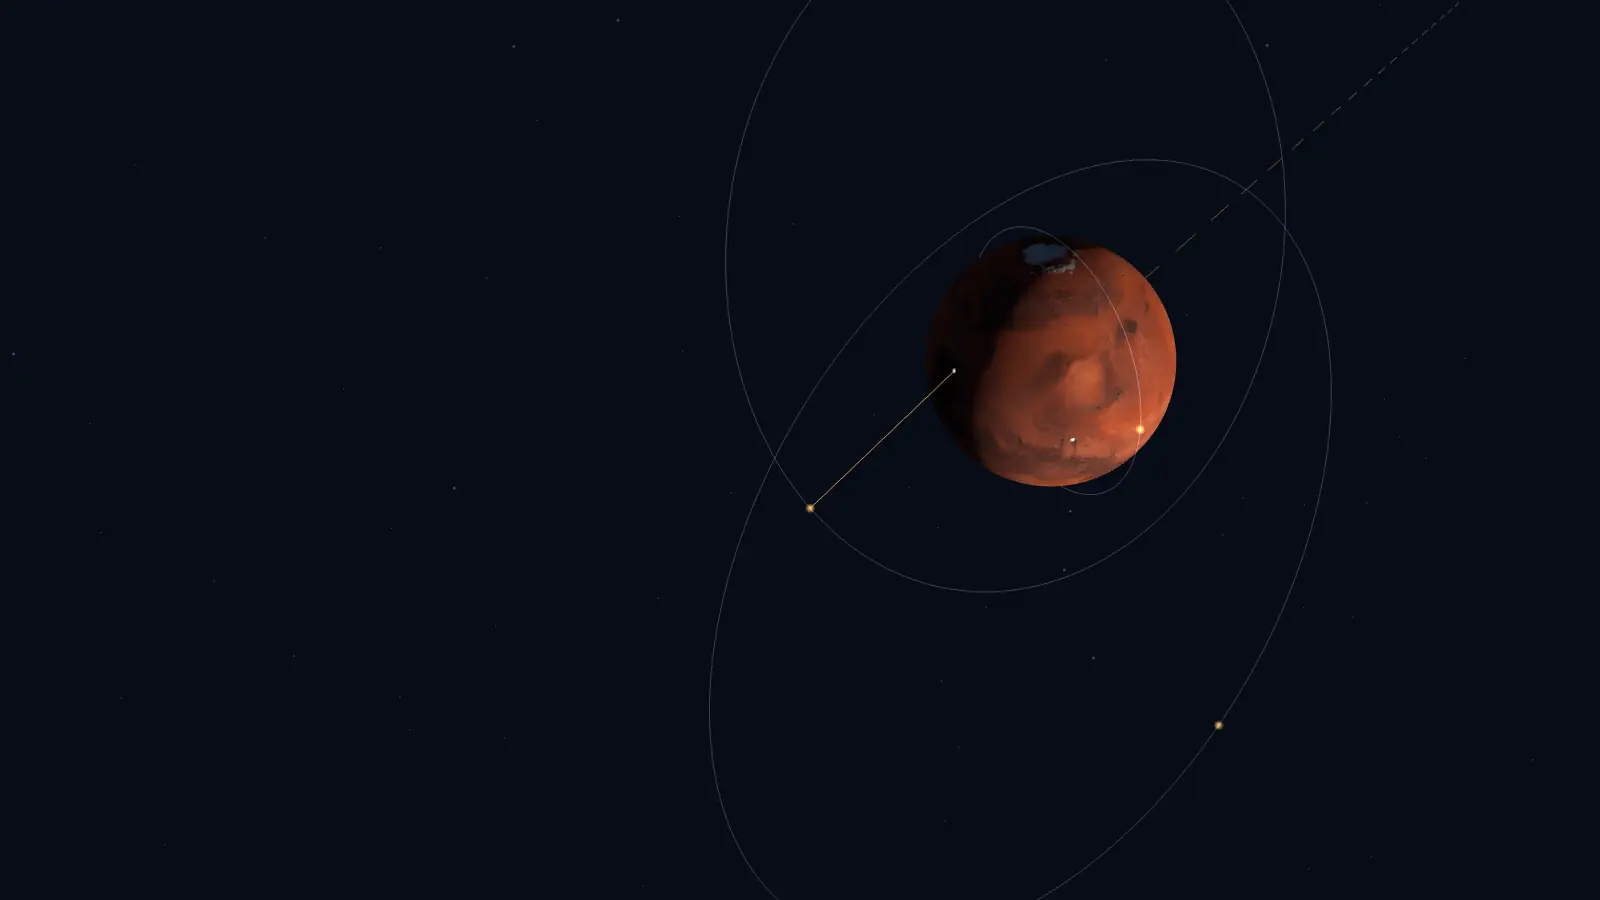
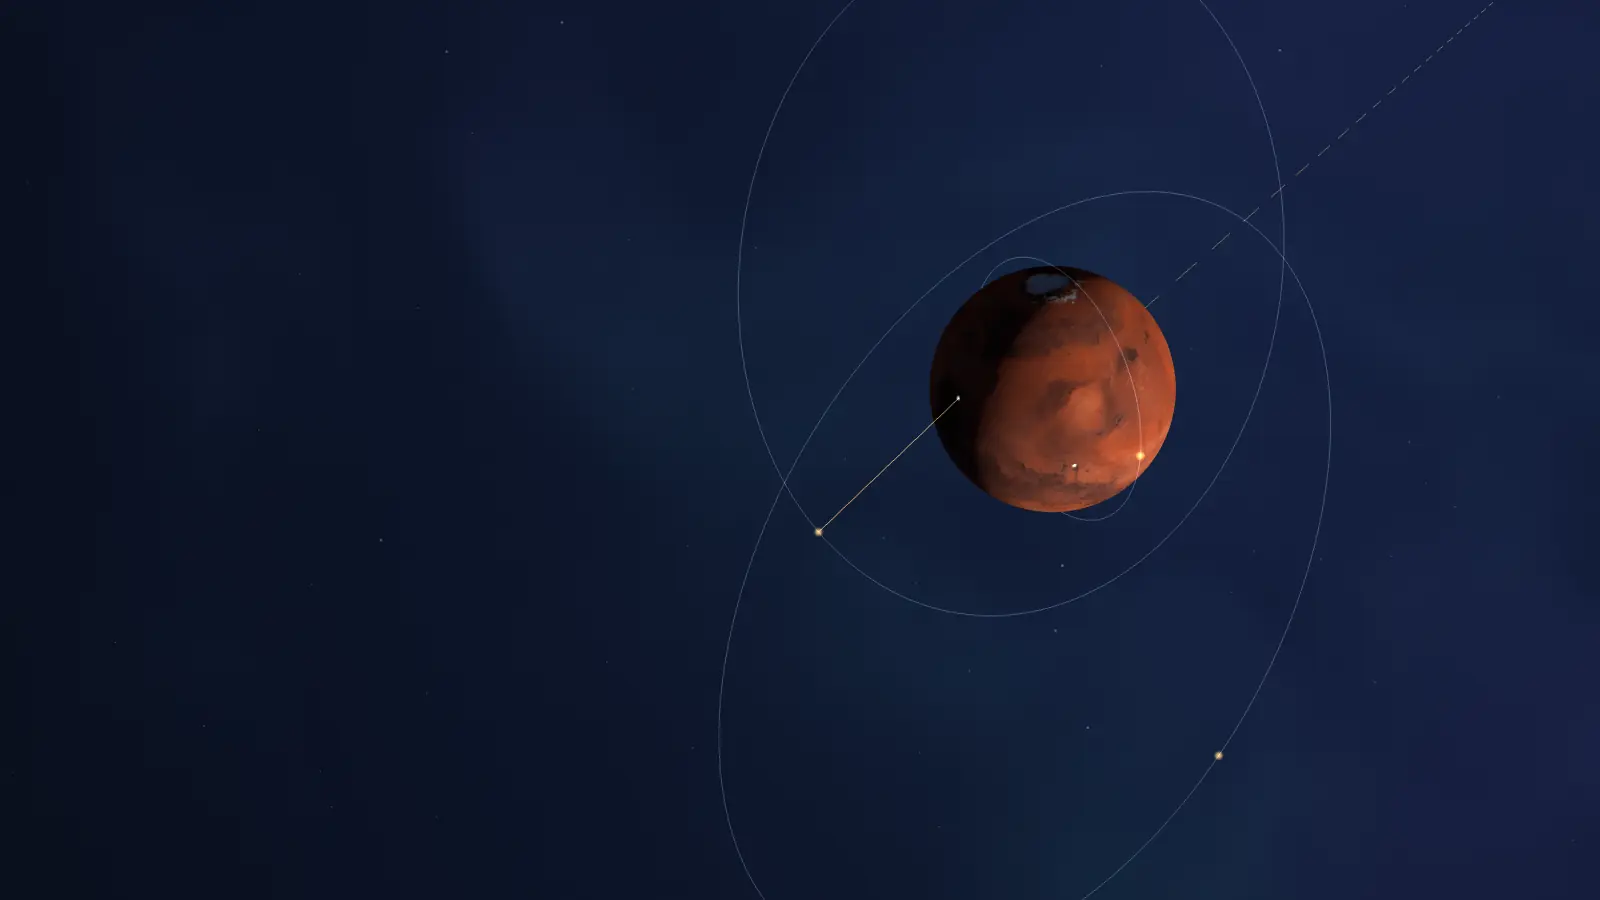
Updated background

diff --git a/assets/js/scene/scene.js b/assets/js/scene/scene.js
@@ -89,7 +89,8 @@ const duration = (s) => { const m = Math.max(1, Math.ceil(s / 60)); return m < 6
 const degrees = (lat, lon) => `${Math.abs(lat).toFixed(1)}° ${lat < 0 ? 'S' : 'N'}, ${Math.abs(lon).toFixed(1)}° ${lon < 0 ? 'W' : 'E'}`;
 
 // reach: how far each stop's camera stands from its target, as a multiple of the tour's (og-card.html only).
-export async function createScene(canvas, { onLive = () => {}, onSlow = () => {}, reach = [1, 1, 1, 1] } = {}) {
+// fade: whether the backdrop fades to the page colour along the bottom edge (off in og-card.html).
+export async function createScene(canvas, { onLive = () => {}, onSlow = () => {}, reach = [1, 1, 1, 1], fade = true } = {}) {
   const small = matchMedia('(max-width: 760px)').matches;
   const renderer = new THREE.WebGLRenderer({ canvas, antialias: true, powerPreference: 'high-performance' });
   let pixelRatio = Math.min(devicePixelRatio || 1, small ? 1.5 : 1.75);
@@ -176,10 +177,11 @@ export async function createScene(canvas, { onLive = () => {}, onSlow = () => {}
   }
 
   const loader = new THREE.TextureLoader();
-  const [dayTex, nightTex, marsTex, dsn, odc, sensorsLL] = await Promise.all([
+  const [dayTex, nightTex, marsTex, skyTex, dsn, odc, sensorsLL] = await Promise.all([
     loader.loadAsync('/assets/img/tex/earth-day.jpg'),
     loader.loadAsync('/assets/img/tex/earth-night.jpg'),
     loader.loadAsync('/assets/img/tex/mars.jpg'),
+    loader.loadAsync('/assets/img/tex/sky.webp').catch(() => null),   // the tour goes on without it
     fetch('/data/dsn.json').then((r) => r.json()),
     fetch('/data/odc.json').then((r) => r.json()),
     fetch('/data/sensors.json').then((r) => r.json()),
@@ -213,6 +215,43 @@ export async function createScene(canvas, { onLive = () => {}, onSlow = () => {}
     };
     scene.add(make(2600, 1.6, 0.55), make(500, 2.6, 0.8));
   }
+
+  // ---------------------------------------------------------------- backdrop
+  // A navy glow behind the subject, the same gradient as the stage's CSS background so the canvas
+  // fades in over it unseen, and a faint nebula (make_assets.py) fixed to the sky like the stars.
+  // Both fade to the page colour along the bottom edge, where the stage meets the sections below.
+  const SKY = 0.11;                                    // the nebula's brightness
+  const backdropRes = new THREE.Vector2(1, 1), edge = { value: fade ? 1 : 0 };
+  const SCREEN = /* glsl */`
+    uniform vec2 res; uniform float edge;
+    float dither() { return (fract(sin(dot(gl_FragCoord.xy, vec2(12.9898, 78.233))) * 43758.5453) - 0.5) / 255.0; }
+    float bottom() { return edge * clamp((0.2 - gl_FragCoord.y / res.y) / 0.2, 0.0, 1.0); }`;
+  const backdrop = new THREE.Mesh(new THREE.PlaneGeometry(2, 2), new THREE.ShaderMaterial({
+    uniforms: { res: { value: backdropRes }, edge, at: { value: small ? new THREE.Vector2(0.5, 0.32) : new THREE.Vector2(0.7, 0.4) } },
+    vertexShader: 'void main() { gl_Position = vec4(position.xy, 0.0, 1.0); }',
+    fragmentShader: SCREEN + /* glsl */`
+      uniform vec2 at;
+      void main() {
+        vec2 uv = vec2(gl_FragCoord.x / res.x, 1.0 - gl_FragCoord.y / res.y);
+        float t = clamp(length((uv - at) / vec2(0.75, 0.85)), 0.0, 1.0);
+        vec3 col = mix(vec3(9.0, 15.0, 30.0), vec3(28.0, 43.0, 88.0), 0.5 * (1.0 - t)) / 255.0;
+        col = mix(col, vec3(7.0, 11.0, 22.0) / 255.0, bottom());
+        gl_FragColor = vec4(col + dither(), 1.0);
+      }`,
+    depthTest: false, depthWrite: false,
+  }));
+  const sky = new THREE.Mesh(new THREE.SphereGeometry(1400, 64, 32), new THREE.ShaderMaterial({
+    uniforms: { res: { value: backdropRes }, edge, map: { value: skyTex }, strength: { value: skyTex ? SKY : 0 } },
+    vertexShader: 'varying vec2 vUv; void main() { vUv = uv; gl_Position = projectionMatrix * modelViewMatrix * vec4(position, 1.0); }',
+    fragmentShader: SCREEN + /* glsl */`
+      uniform sampler2D map; uniform float strength; varying vec2 vUv;
+      void main() { gl_FragColor = vec4(texture2D(map, vUv).rgb * strength * (1.0 - bottom()) + dither(), 1.0); }`,
+    side: THREE.BackSide, depthTest: false, depthWrite: false, blending: THREE.AdditiveBlending,
+  }));
+  backdrop.renderOrder = -2;                           // drawn first, under everything else
+  sky.renderOrder = -1;
+  backdrop.frustumCulled = sky.frustumCulled = false;
+  scene.add(backdrop, sky);
 
   // ---------------------------------------------------------------- Earth
   const earth = new THREE.Group();
@@ -1038,6 +1077,7 @@ export async function createScene(canvas, { onLive = () => {}, onSlow = () => {}
     view.w = w; view.h = h;
     odcMat.uniforms.pr.value = renderer.getPixelRatio();
     renderer.setSize(w, h, false);
+    renderer.getDrawingBufferSize(backdropRes);
     camera.aspect = w / h;
     if (w > 760) camera.setViewOffset(w, h, -0.1 * w, 0, w, h);
     else camera.setViewOffset(w, h, 0, 0.21 * h, w, h);

diff --git a/assets/css/site.css b/assets/css/site.css
@@ -180,7 +180,15 @@ html.scene { scroll-behavior: smooth; }
   grid-area: 1 / 1; align-self: start;
   height: 100vh; height: 100svh;
   overflow: hidden;
-  background: radial-gradient(120% 90% at 70% 40%, #0d1630 0%, var(--bg) 60%);
+  /* the same glow scene.js draws behind the tour, so the canvas fades in over it unseen */
+  background: linear-gradient(rgba(7, 11, 22, 0) 80%, var(--bg)),
+    radial-gradient(75% 85% at 70% 40%, rgba(28, 43, 88, 0.5), rgba(28, 43, 88, 0)), #090f1e;
+}
+@media (max-width: 760px) {
+  .scene .stage {
+    background: linear-gradient(rgba(7, 11, 22, 0) 80%, var(--bg)),
+      radial-gradient(75% 85% at 50% 32%, rgba(28, 43, 88, 0.5), rgba(28, 43, 88, 0)), #090f1e;
+  }
 }
 .scene .stage canvas { position: absolute; inset: 0; width: 100%; height: 100%; opacity: 0; transition: opacity 1.4s ease; }
 .scene-ready .stage canvas { opacity: 1; }
@@ -404,17 +412,25 @@ html.scene { scroll-behavior: smooth; }
 .site-foot .communities a { color: var(--ink); }
 
 /* ---------- topic pages ---------- */
-.topic-hero { position: relative; overflow: hidden; border-bottom: 1px solid var(--line-soft); min-height: min(76vh, 640px); display: flex; align-items: center; }
+.topic-hero { position: relative; overflow: hidden; min-height: min(76vh, 640px); display: flex; align-items: center; }
 .topic-hero > .wrap { width: 100%; }
 .topic-hero picture, .topic-hero > img { position: absolute; inset: 0; }
 .topic-hero picture img { width: 100%; height: 100%; object-fit: cover; object-position: 85% 50%; }
-.topic-hero::after { content: ""; position: absolute; inset: 0; background: linear-gradient(90deg, rgba(7, 11, 22, 0.94) 0%, rgba(7, 11, 22, 0.75) 42%, rgba(7, 11, 22, 0.05) 75%); }
+/* The picture fades into the page at its top and bottom, as the tour does on the home page. */
+.topic-hero::after {
+  content: ""; position: absolute; inset: 0;
+  background: linear-gradient(var(--bg), rgba(7, 11, 22, 0) 96px, rgba(7, 11, 22, 0) calc(100% - 160px), var(--bg)),
+    linear-gradient(90deg, rgba(7, 11, 22, 0.94) 0%, rgba(7, 11, 22, 0.75) 42%, rgba(7, 11, 22, 0.05) 75%);
+}
 .topic-hero .wrap { position: relative; z-index: 1; padding-top: 72px; padding-bottom: 72px; }
 .topic-hero h1 { font-size: clamp(34px, 4.6vw, 54px); margin-bottom: 14px; }
 .topic-hero .num { color: var(--accent); font-size: 14px; letter-spacing: 1.6px; margin: 0 0 6px; }
 .topic-hero .lead { max-width: 54ch; font-size: clamp(17px, 1.5vw, 19px); }
 @media (max-width: 760px) {
-  .topic-hero::after { background: linear-gradient(180deg, rgba(7, 11, 22, 0.55) 0%, rgba(7, 11, 22, 0.92) 55%); }
+  .topic-hero::after {
+    background: linear-gradient(var(--bg), rgba(7, 11, 22, 0) 64px, rgba(7, 11, 22, 0) calc(100% - 120px), var(--bg)),
+      linear-gradient(180deg, rgba(7, 11, 22, 0.55) 0%, rgba(7, 11, 22, 0.92) 55%);
+  }
   .topic-hero .wrap { padding-top: 140px; padding-bottom: 40px; }
 }
 /* The way back to this topic's stop on the home page, and the four topics side by side. */

diff --git a/scripts/og-card.html b/scripts/og-card.html
@@ -124,6 +124,9 @@
 
     /* ---- ?view=N: one panel's picture, nothing else */
     html.one-view .og { display: block; width: 100vw; height: 100vh; }
+    /* A hero is 1600 x 900 whatever the window: headless Chrome lays a 1600 x 900 window out
+       87 px short, which left a strip of page colour along the bottom of each capture. */
+    html.hero .og { width: 1600px; height: 900px; }
     html.one-view .og > :not(.og-topics), html.one-view .og .og-label, html.one-view .og .og-topic::before { display: none; }
     html.one-view .og .og-topics, html.one-view .og .og-topic { display: flex; height: 100%; }
     html.one-view .og .og-topic { flex: 1; }
@@ -201,7 +204,9 @@
     // The tour films stop 03 from 3.7 Earth radii and stop 02 from 4.3. Side by side, 03's camera
     // stands back by 1.156 so the two Earths come out the same size; y 0.389 above puts 03's
     // centre level with 02's (both panels are at their widest framing, so a zoom cannot do it).
-    const REACH = HERO >= 0 ? [1, 1, 1, 1] : [1, 1, 1.156, 1];
+    // The heroes' cameras stand back by 900 / 813: their framing was set while the capture came out
+    // 813 px tall (see html.hero above), and this keeps each subject the size it had then.
+    const REACH = HERO >= 0 ? [1.107, 1.107, 1.107, 1] : [1, 1, 1.156, 1];
     // For trying things out: ?t=ISO (every panel's moment), ?t0=ISO and ?r0=minutes (one panel's
     // moment and run), ?f2=x,y,z (one panel's framing), ?pull=0.3.
     if (q.has('pull')) PULL = Number(q.get('pull'));
@@ -214,6 +219,7 @@
     const root = document.documentElement;
     if (SLIDE) root.classList.add('slide');
     if (VIEW >= 0) root.classList.add('one-view');
+    if (HERO >= 0) root.classList.add('hero');
     document.getElementById('card').classList.add(VARIANT);
     document.querySelectorAll('.og-topic').forEach((li, i) => { li.hidden = VIEW >= 0 && i !== VIEW; });
 
@@ -283,7 +289,8 @@
       Date.now = () => at;
       Math.random = seeded(7);
       try {
-        const scene = await createScene(canvas, { onSlow() {}, reach: REACH });
+        // No fade along the bottom: a canvas here can end anywhere in its panel (the topic pages fade their heroes).
+        const scene = await createScene(canvas, { onSlow() {}, reach: REACH, fade: false });
         if (i === 3) scene.setProgress(PULL);
         scene.goTo(i, true);
         step(i, Math.round(RUN[i] * 10), 100);

diff --git a/scripts/make_assets.py b/scripts/make_assets.py
@@ -424,6 +424,56 @@ def textures():
         print("tex   ", name, "<-", src.name)
 
 
+def sky(w=2048, h=1024, seed=7):
+    """A faint nebula for the tour's sky, drawn here from noise so it comes out the same every time.
+
+    Equirectangular, in the layout of three.js's SphereGeometry uvs. The scene adds it at about a
+    tenth of its brightness, so it is stored at full range and scaled down there.
+    """
+    rng = np.random.default_rng(seed)
+    perm = np.tile(rng.permutation(256), 2)
+    vals = rng.random(256)
+
+    def noise(x, y, z):                                  # value noise, smooth in all three axes
+        i = [np.floor(c).astype(int) for c in (x, y, z)]
+        f = [c - ic for c, ic in zip((x, y, z), i)]
+        u = [t * t * t * (t * (t * 6 - 15) + 10) for t in f]
+        out = 0
+        for dx in (0, 1):
+            for dy in (0, 1):
+                for dz in (0, 1):
+                    k = vals[perm[perm[perm[(i[0] + dx) & 255] + ((i[1] + dy) & 255)] + ((i[2] + dz) & 255)] & 255]
+                    out = out + k * (u[0] if dx else 1 - u[0]) * (u[1] if dy else 1 - u[1]) * (u[2] if dz else 1 - u[2])
+        return out
+
+    def fbm(p, octaves):
+        total, amp, norm = 0, 1.0, 0
+        for o in range(octaves):
+            total, norm = total + amp * noise(*p), norm + amp
+            p, amp = p * 2.03 + 17.31 * (o + 1), amp * 0.5
+        return total / norm
+
+    def ramp(a, b, x):
+        t = np.clip((x - a) / (b - a), 0, 1)
+        return t * t * (3 - 2 * t)
+
+    phi, theta = np.meshgrid(2 * np.pi * (np.arange(w) + 0.5) / w, np.pi * (np.arange(h) + 0.5) / h)
+    d = np.stack([-np.cos(phi) * np.sin(theta), np.cos(theta), np.sin(phi) * np.sin(theta)])
+    p = d * 2.2
+    warp = np.stack([fbm(p + 3.1, 4), fbm(p + 8.7, 4), fbm(p + 1.9, 4)]) - 0.5
+    gas = ramp(0.42, 0.78, fbm(p + 2.2 * warp, 6))                              # where the clouds are
+    strands = (1 - np.abs(2 * fbm(p * 2.4 + 1.3 * warp + 5, 5) - 1)) ** 4       # brighter filaments in them
+    haze = 0.25 * ramp(0.3, 0.9, fbm(d * 1.3 + 40, 3))                          # so no view is quite empty
+    hue, teal = fbm(d * 1.1 + 11, 3), ramp(0.55, 0.75, fbm(d * 1.6 + 23, 3))
+    rgb = lambda s: np.array([int(s[i:i + 2], 16) / 255 for i in (1, 3, 5)])[:, None, None]
+    col = (rgb("#3a5bc0") * (1 - hue) + rgb("#7a52b8") * hue) * (1 - teal) + rgb("#2f9a9a") * teal
+    im = col * gas * (0.75 + 0.6 * strands) + rgb("#34488a") * haze
+    im = (np.clip(im / im.max(), 0, 1).transpose(1, 2, 0) * 255 + 0.5).astype(np.uint8)
+    out = IMG / "tex/sky.webp"
+    Image.fromarray(im).save(out, quality=80, method=6)
+    print("tex    sky.webp (drawn,", out.stat().st_size // 1024, "KB)")
+
+
 def sensors(n=520, seed=7):
     """Random land points for the IoT stop, sampled from the day map (ocean is dark blue)."""
     a = np.asarray(Image.open(TEXTURES["earth-day.jpg"][0]).convert("RGB")).astype(int)
@@ -498,6 +548,7 @@ def main():
     og_image()
     icons()
     textures()
+    sky()
     sensors()
     dsn()
     odc()
